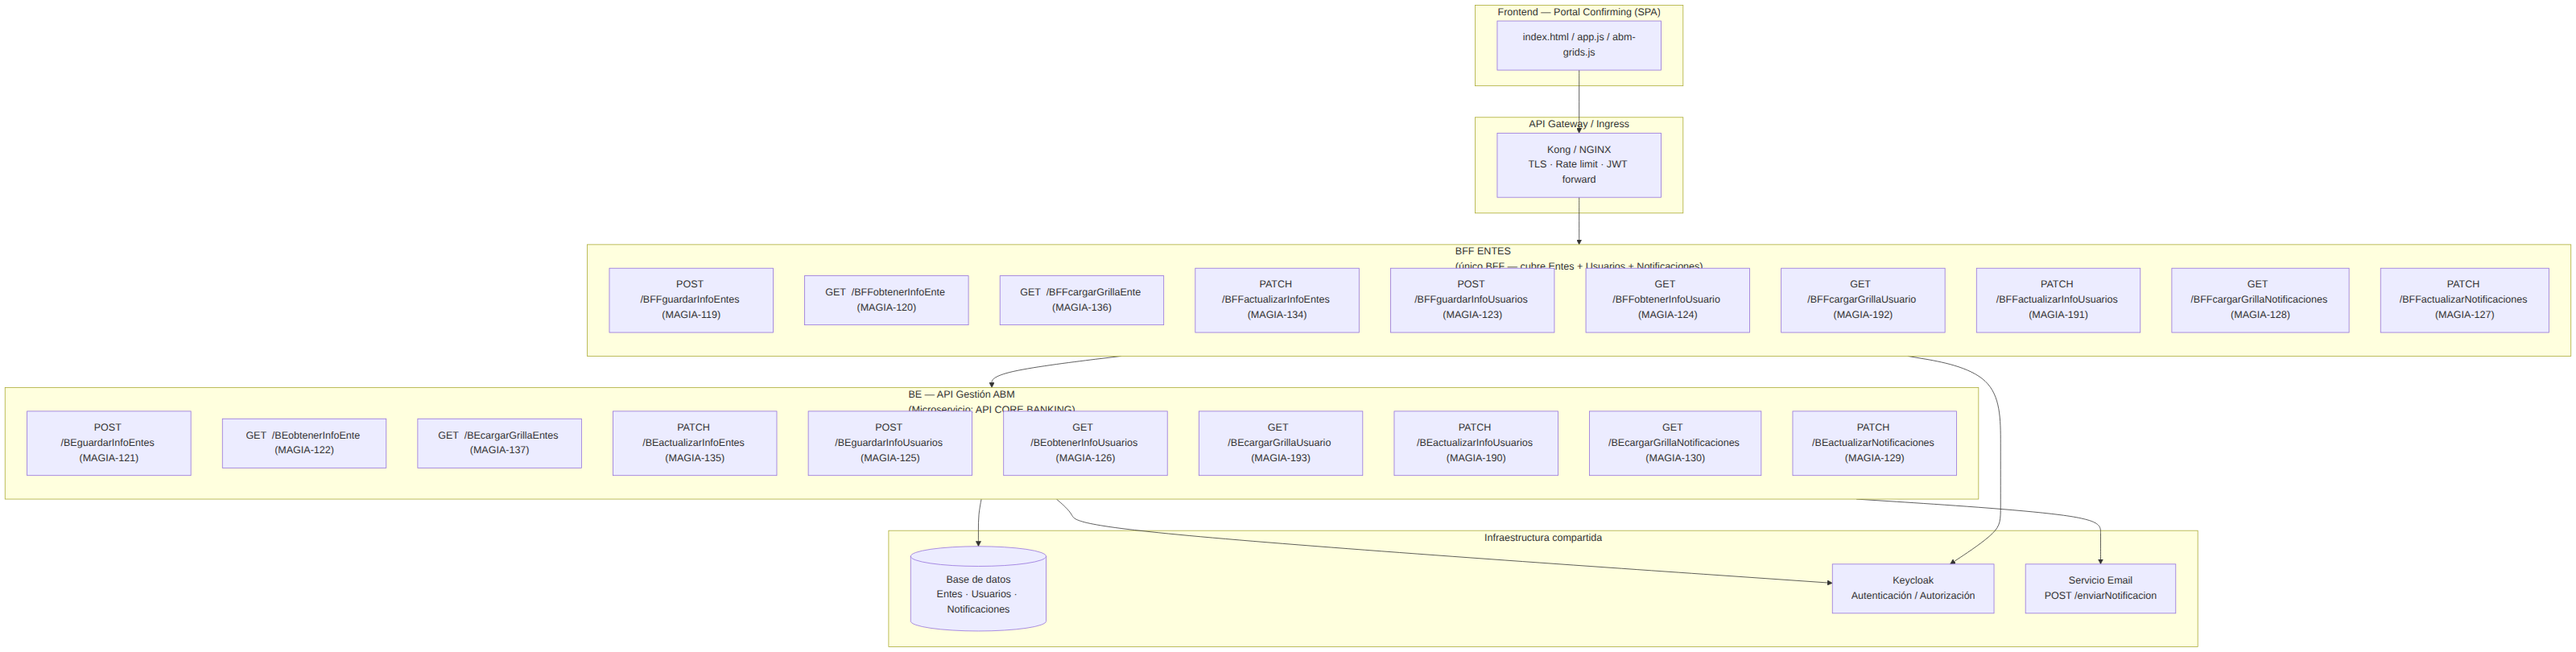
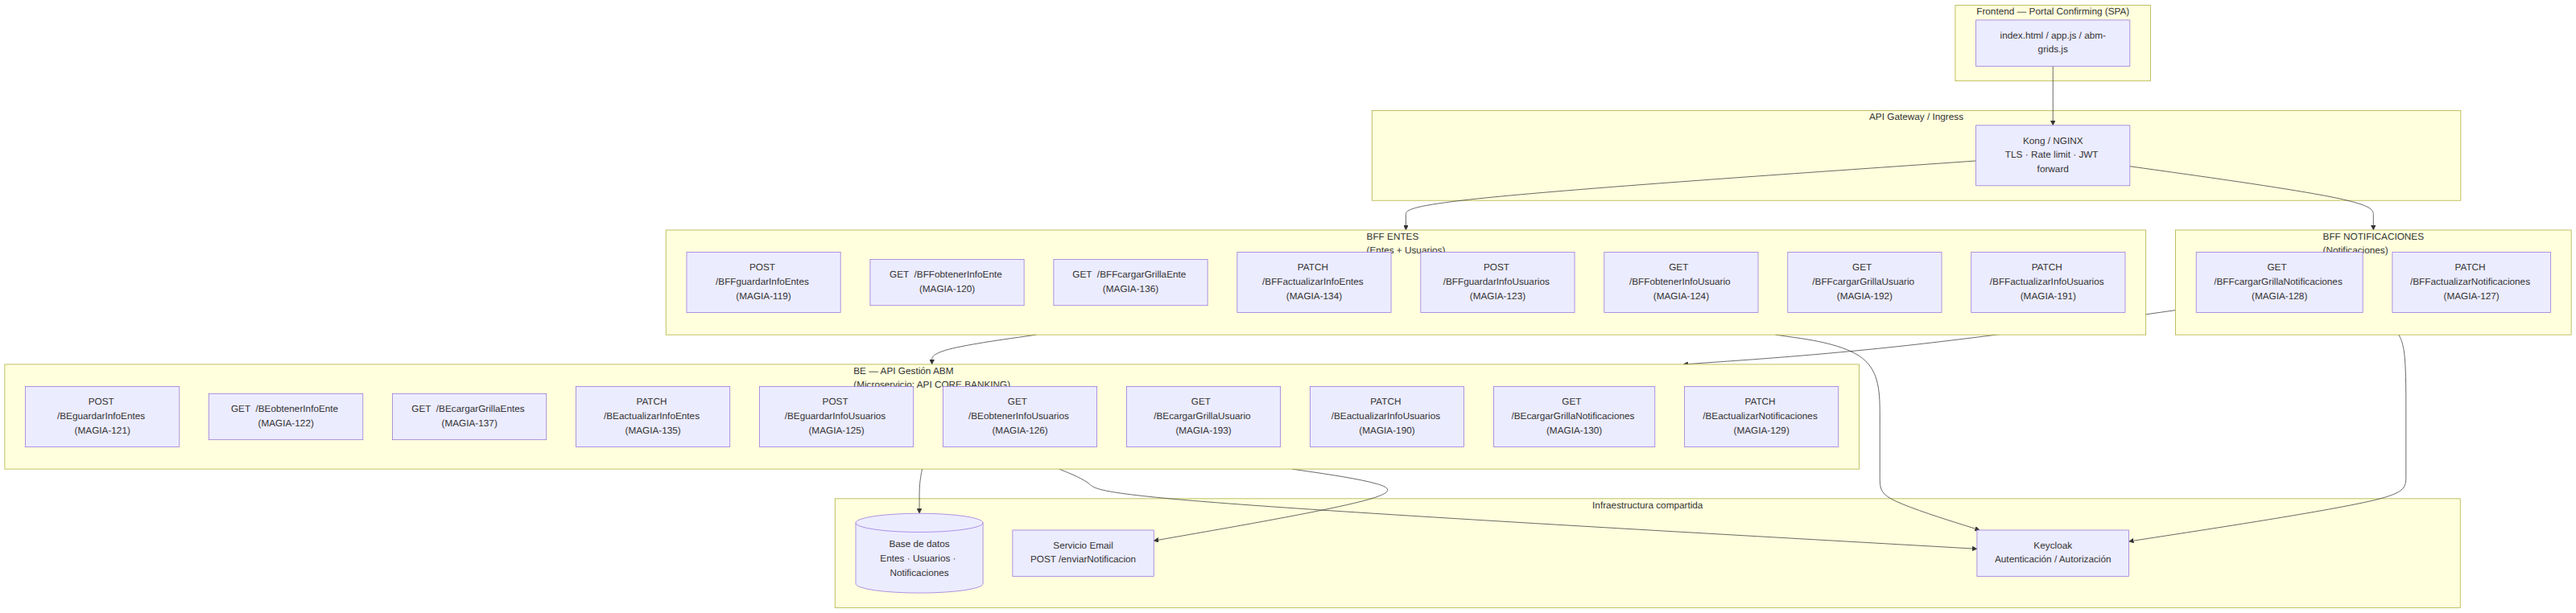
Corregir arquitectura: 2 BFFs separados (ENTES y NOTIFICACIONES)
Corrección: el sistema tiene 2 BFFs separados, no uno solo:
  - BFF ENTES: gestiona Entes (MAGIA-119/120/134/136) y Usuarios (MAGIA-123/124/191/192)
  - BFF NOTIFICACIONES: gestiona Notificaciones (MAGIA-127/128)

Cambios en arquitectura_diagramas_v1.0.0.md (v1.1.0):
  - Sección 1: tablas separadas por BFF ENTES y BFF NOTIFICACIONES
  - Sección 2: arquitectura general con 2 subgraphs BFF separados
  - Sección 3: capas FE→BFF→BE con 2 BFFs distintos
  - Secciones 6.1 y 6.2: participante 'BFF NOTIFICACIONES' en secuencias
  - Secciones 7, 8, 9: user flows con BFF correcto en cada nodo
  - Sección 11: matriz de trazabilidad con columna BFF actualizada

Todos los 16 PNGs re-renderizados con los cambios

diff --git a/assets/arquitectura_diagramas_v1.0.0.md b/assets/arquitectura_diagramas_v1.0.0.md
@@ -5,8 +5,10 @@
 |-------|-------|
 | **Fuente de verdad** | Jira — Proyecto MAGIA |
 | **Issues cubiertos** | MAGIA-119/120/121/122/125/126/127/128/129/130/134/135/136/137/190/191/192/193 |
-| **Versión documento** | 1.0.0 |
+| **Versión documento** | 1.1.0 |
 | **Fecha** | 2026-06-26 |
+
+> **v1.1.0:** Corrección arquitectura — existen **2 BFFs** separados: BFF ENTES (Entes + Usuarios) y BFF NOTIFICACIONES (Notificaciones).
 
 ---
 
@@ -30,7 +32,7 @@
 
 > Nombres exactos extraídos de las historias en Jira (proyecto MAGIA). Estado al 26/06/2026.
 
-### BFF ENTES (BFF único que maneja Entes + Usuarios + Notificaciones)
+### BFF ENTES (Entes + Usuarios)
 
 | Método | Endpoint BFF | Historia | Estado Jira |
 |--------|-------------|----------|-------------|
@@ -42,6 +44,11 @@
 | `GET` | `/api/v1/BFFobtenerInfoUsuario` | MAGIA-124 | Relevamiento |
 | `GET` | `/api/v1/BFFcargarGrillaUsuario` | MAGIA-192 | Relevamiento |
 | `PATCH` | `/api/v1/BFFactualizarInfoUsuarios` | MAGIA-191 | Relevamiento |
+
+### BFF NOTIFICACIONES (Notificaciones)
+
+| Método | Endpoint BFF | Historia | Estado Jira |
+|--------|-------------|----------|-------------|
 | `GET` | `/api/v1/BFFcargarGrillaNotificaciones` | MAGIA-128 | Relevamiento |
 | `PATCH` | `/api/v1/BFFactualizarNotificaciones` | MAGIA-127 | En Espera |
 
@@ -84,32 +91,36 @@ flowchart TB
         APIGW["Kong / NGINX\nTLS · Rate limit · JWT forward"]
     end
 
-    subgraph BFF["BFF ENTES\n(único BFF — cubre Entes + Usuarios + Notificaciones)"]
+    subgraph BFF_E["BFF ENTES\n(Entes + Usuarios)"]
         direction TB
-        B1["POST /BFFguardarInfoEntes (MAGIA-119)"]
-        B2["GET  /BFFobtenerInfoEnte (MAGIA-120)"]
-        B3["GET  /BFFcargarGrillaEnte (MAGIA-136)"]
-        B4["PATCH /BFFactualizarInfoEntes (MAGIA-134)"]
-        B5["POST /BFFguardarInfoUsuarios (MAGIA-123)"]
-        B6["GET  /BFFobtenerInfoUsuario (MAGIA-124)"]
-        B7["GET  /BFFcargarGrillaUsuario (MAGIA-192)"]
-        B8["PATCH /BFFactualizarInfoUsuarios (MAGIA-191)"]
-        B9["GET  /BFFcargarGrillaNotificaciones (MAGIA-128)"]
-        B10["PATCH /BFFactualizarNotificaciones (MAGIA-127)"]
+        BE1["POST /BFFguardarInfoEntes (MAGIA-119)"]
+        BE2["GET  /BFFobtenerInfoEnte (MAGIA-120)"]
+        BE3["GET  /BFFcargarGrillaEnte (MAGIA-136)"]
+        BE4["PATCH /BFFactualizarInfoEntes (MAGIA-134)"]
+        BE5["POST /BFFguardarInfoUsuarios (MAGIA-123)"]
+        BE6["GET  /BFFobtenerInfoUsuario (MAGIA-124)"]
+        BE7["GET  /BFFcargarGrillaUsuario (MAGIA-192)"]
+        BE8["PATCH /BFFactualizarInfoUsuarios (MAGIA-191)"]
+    end
+
+    subgraph BFF_N["BFF NOTIFICACIONES\n(Notificaciones)"]
+        direction TB
+        BN1["GET  /BFFcargarGrillaNotificaciones (MAGIA-128)"]
+        BN2["PATCH /BFFactualizarNotificaciones (MAGIA-127)"]
     end
 
     subgraph BE["BE — API Gestión ABM\n(Microservicio: API CORE BANKING)"]
         direction TB
-        BE1["POST /BEguardarInfoEntes (MAGIA-121)"]
-        BE2["GET  /BEobtenerInfoEnte (MAGIA-122)"]
-        BE3["GET  /BEcargarGrillaEntes (MAGIA-137)"]
-        BE4["PATCH /BEactualizarInfoEntes (MAGIA-135)"]
-        BE5["POST /BEguardarInfoUsuarios (MAGIA-125)"]
-        BE6["GET  /BEobtenerInfoUsuarios (MAGIA-126)"]
-        BE7["GET  /BEcargarGrillaUsuario (MAGIA-193)"]
-        BE8["PATCH /BEactualizarInfoUsuarios (MAGIA-190)"]
-        BE9["GET  /BEcargarGrillaNotificaciones (MAGIA-130)"]
-        BE10["PATCH /BEactualizarNotificaciones (MAGIA-129)"]
+        BE_E1["POST /BEguardarInfoEntes (MAGIA-121)"]
+        BE_E2["GET  /BEobtenerInfoEnte (MAGIA-122)"]
+        BE_E3["GET  /BEcargarGrillaEntes (MAGIA-137)"]
+        BE_E4["PATCH /BEactualizarInfoEntes (MAGIA-135)"]
+        BE_U1["POST /BEguardarInfoUsuarios (MAGIA-125)"]
+        BE_U2["GET  /BEobtenerInfoUsuarios (MAGIA-126)"]
+        BE_U3["GET  /BEcargarGrillaUsuario (MAGIA-193)"]
+        BE_U4["PATCH /BEactualizarInfoUsuarios (MAGIA-190)"]
+        BE_N1["GET  /BEcargarGrillaNotificaciones (MAGIA-130)"]
+        BE_N2["PATCH /BEactualizarNotificaciones (MAGIA-129)"]
     end
 
     subgraph INFRA["Infraestructura compartida"]
@@ -119,12 +130,15 @@ flowchart TB
     end
 
     UI --> APIGW
-    APIGW --> BFF
-    BFF --> BE
+    APIGW --> BFF_E
+    APIGW --> BFF_N
+    BFF_E --> BE
+    BFF_N --> BE
     BE --> DB
     BE --> KC
     BE --> MAIL
-    BFF --> KC
+    BFF_E --> KC
+    BFF_N --> KC
 ```
 
 ---
@@ -135,9 +149,12 @@ flowchart TB
 flowchart LR
     FE(["FE\nPortal Confirming"])
 
-    subgraph BFF_ENTES["BFF ENTES"]
+    subgraph BFF_ENTES["BFF ENTES\n(Entes + Usuarios)"]
         BFF_E["Entes\nMAGIA-119/120/134/136"]
         BFF_U["Usuarios\nMAGIA-123/124/191/192"]
+    end
+
+    subgraph BFF_NOTIF["BFF NOTIFICACIONES\n(Notificaciones)"]
         BFF_N["Notificaciones\nMAGIA-127/128"]
     end
 
@@ -242,7 +259,7 @@ sequenceDiagram
     participant DB as Base de Datos
 
     U->>FE: Ingresa a pestaña EGP o PROVEEDOR
-    
+
     alt Servicio responde OK (MAGIA-136 / MAGIA-137)
         FE->>BFF: GET /api/v1/BFFcargarGrillaEnte\n?entity=EGP|PROVEEDOR&pagelimit=20&status=todos
         BFF->>BFF: Validar token / autorización
@@ -537,7 +554,7 @@ sequenceDiagram
     autonumber
     actor U as Usuario (ABM)
     participant FE as Frontend
-    participant BFF as BFF ENTES
+    participant BFF as BFF NOTIFICACIONES
     participant BE as BE API Gestión ABM
     participant DB as Base de Datos
 
@@ -579,7 +596,7 @@ sequenceDiagram
     autonumber
     actor U as Usuario (ABM)
     participant FE as Frontend
-    participant BFF as BFF ENTES
+    participant BFF as BFF NOTIFICACIONES
     participant BE as BE API Gestión ABM
     participant DB as Base de Datos
 
@@ -622,13 +639,13 @@ flowchart TD
     Start((Inicio)) --> Login[Login Portal Confirming]
     Login --> NavABM[Navegar a Gestión ABM]
     NavABM --> TabEnte{Seleccionar tab}
-    TabEnte -->|EGP| CargarGrillaEGP["GET /BFFcargarGrillaEnte\n?entity=EGP&pagelimit=20&status=todos\nMAGIA-136 → MAGIA-137"]
-    TabEnte -->|PROVEEDOR| CargarGrillaProv["GET /BFFcargarGrillaEnte\n?entity=PROVEEDOR&pagelimit=20&status=todos\nMAGIA-136 → MAGIA-137"]
+    TabEnte -->|EGP| CargarGrillaEGP["GET /BFFcargarGrillaEnte\n?entity=EGP&pagelimit=20&status=todos\nBFF ENTES — MAGIA-136 → MAGIA-137"]
+    TabEnte -->|PROVEEDOR| CargarGrillaProv["GET /BFFcargarGrillaEnte\n?entity=PROVEEDOR&pagelimit=20&status=todos\nBFF ENTES — MAGIA-136 → MAGIA-137"]
 
     CargarGrillaEGP --> AccionEGP{Acción sobre grilla EGP}
     CargarGrillaProv --> AccionProv{Acción sobre grilla Proveedor}
 
-    AccionEGP -->|Ver detalle| ObtenerEnte["GET /BFFobtenerInfoEnte?ID=\nMAGIA-120 → MAGIA-122"]
+    AccionEGP -->|Ver detalle| ObtenerEnte["GET /BFFobtenerInfoEnte?ID=\nBFF ENTES — MAGIA-120 → MAGIA-122"]
     AccionProv -->|Ver detalle| ObtenerEnte
     ObtenerEnte --> ModalDetalle[Modal detalle solo lectura]
     ModalDetalle --> FinDetalle((Fin))
@@ -637,16 +654,16 @@ flowchart TD
     AccionProv -->|Nuevo Proveedor| FormAlta
     FormAlta --> ValFE{Validación FE\ncampos obligatorios}
     ValFE -->|Error| FormAlta
-    ValFE -->|OK| PostEnte["POST /BFFguardarInfoEntes\nMAGIA-119 → MAGIA-121"]
+    ValFE -->|OK| PostEnte["POST /BFFguardarInfoEntes\nBFF ENTES — MAGIA-119 → MAGIA-121"]
     PostEnte --> RespAlta{Response}
     RespAlta -->|OK| NotifAlta[BE dispara notif. email alta ente]
     NotifAlta --> RefreshGrilla[Refrescar grilla]
-    RespAlta -->|ERROR en BFF| ErrBFF["BFF NO llama BE\nMostrar error funcional al FE"]
+    RespAlta -->|ERROR en BFF| ErrBFF["BFF ENTES NO llama BE\nMostrar error funcional al FE"]
     RespAlta -->|ERROR en BE| ErrBE[Mostrar error propagado al FE]
 
     AccionEGP -->|Editar| FormEditar[Formulario Editar Ente]
     AccionProv -->|Editar| FormEditar
-    FormEditar --> PatchEdit["PATCH /BFFactualizarInfoEntes\naction=editar\nMAGIA-134 → MAGIA-135"]
+    FormEditar --> PatchEdit["PATCH /BFFactualizarInfoEntes\naction=editar — BFF ENTES — MAGIA-134 → MAGIA-135"]
     PatchEdit --> RespEdit{Response}
     RespEdit -->|OK| RefreshGrilla
     RespEdit -->|ERROR en BFF| ErrBFF
@@ -655,16 +672,16 @@ flowchart TD
     AccionEGP -->|Gestionar pendiente| FormGestionar[Modal Gestionar Autorización]
     AccionProv -->|Gestionar pendiente| FormGestionar
     FormGestionar --> DecAuth{Decisión}
-    DecAuth -->|Autorizar| PatchAuth["PATCH /BFFactualizarInfoEntes\naction=autorizar\nMAGIA-134 → MAGIA-135"]
-    DecAuth -->|Rechazar + motivo| PatchRej["PATCH /BFFactualizarInfoEntes\naction=rechazar\nMAGIA-134 → MAGIA-135"]
+    DecAuth -->|Autorizar| PatchAuth["PATCH /BFFactualizarInfoEntes\naction=autorizar — BFF ENTES — MAGIA-134 → MAGIA-135"]
+    DecAuth -->|Rechazar + motivo| PatchRej["PATCH /BFFactualizarInfoEntes\naction=rechazar — BFF ENTES — MAGIA-134 → MAGIA-135"]
     PatchAuth --> RefreshGrilla
     PatchRej --> RefreshGrilla
 
-    AccionEGP -->|Bloquear / Desbloquear| PatchBlock["PATCH /BFFactualizarInfoEntes\naction=bloquear|desbloquear\nMAGIA-134 → MAGIA-135"]
+    AccionEGP -->|Bloquear / Desbloquear| PatchBlock["PATCH /BFFactualizarInfoEntes\naction=bloquear|desbloquear — BFF ENTES — MAGIA-134 → MAGIA-135"]
     AccionProv -->|Bloquear / Desbloquear| PatchBlock
     PatchBlock --> RefreshGrilla
 
-    AccionEGP -->|Borrar| PatchBorrar["PATCH /BFFactualizarInfoEntes\naction=borrar\nMAGIA-134 → MAGIA-135"]
+    AccionEGP -->|Borrar| PatchBorrar["PATCH /BFFactualizarInfoEntes\naction=borrar — BFF ENTES — MAGIA-134 → MAGIA-135"]
     AccionProv -->|Borrar| PatchBorrar
     PatchBorrar --> RefreshGrilla
 
@@ -681,28 +698,28 @@ flowchart TD
 flowchart TD
     Start((Inicio)) --> Login[Login Portal Confirming]
     Login --> NavABM[Gestión ABM → Tab Usuarios]
-    NavABM --> CargarGrilla["GET /BFFcargarGrillaUsuario\n?entity=USUARIOS&pagelimit=20&status=todos\nMAGIA-192 → MAGIA-193"]
+    NavABM --> CargarGrilla["GET /BFFcargarGrillaUsuario\n?entity=USUARIOS&pagelimit=20&status=todos\nBFF ENTES — MAGIA-192 → MAGIA-193"]
 
     CargarGrilla --> Accion{Acción sobre grilla}
 
-    Accion -->|Ver detalle| ObtenerUsuario["GET /BFFobtenerInfoUsuario?ID=\nMAGIA-124 → MAGIA-126"]
+    Accion -->|Ver detalle| ObtenerUsuario["GET /BFFobtenerInfoUsuario?ID=\nBFF ENTES — MAGIA-124 → MAGIA-126"]
     ObtenerUsuario --> ModalDet[Modal detalle solo lectura]
     ModalDet --> FinDet((Fin))
 
     Accion -->|Nuevo Usuario| FormNuevo[Formulario Nuevo Usuario]
     FormNuevo --> ValFE{Validación FE\nnombre/apellido/email/teléfono/ente/rol}
     ValFE -->|Error| FormNuevo
-    ValFE -->|OK| PostUsuario["POST /BFFguardarInfoUsuarios\nMAGIA-123 → MAGIA-125"]
+    ValFE -->|OK| PostUsuario["POST /BFFguardarInfoUsuarios\nBFF ENTES — MAGIA-123 → MAGIA-125"]
     PostUsuario --> RespAlta{Response}
     RespAlta -->|OK| NotifPend[BE notifica alta usuario pendiente autorización]
     NotifPend --> RefreshGrilla[Refrescar grilla Usuarios]
-    RespAlta -->|ERROR BFF| ErrBFF["BFF NO llama BE\nError funcional al FE"]
+    RespAlta -->|ERROR BFF| ErrBFF["BFF ENTES NO llama BE\nError funcional al FE"]
     RespAlta -->|ERROR BE| ErrBE[Error propagado al FE]
 
     Accion -->|Editar| FormEditar[Formulario Editar Usuario]
     FormEditar --> CambioCritico{¿Cambió ente o rol?}
-    CambioCritico -->|Sí| PatchReauth["PATCH /BFFactualizarInfoUsuarios\naction=editar + re-pendiente\nMAGIA-191 → MAGIA-190"]
-    CambioCritico -->|No| PatchEdit["PATCH /BFFactualizarInfoUsuarios\naction=editar\nMAGIA-191 → MAGIA-190"]
+    CambioCritico -->|Sí| PatchReauth["PATCH /BFFactualizarInfoUsuarios\naction=editar + re-pendiente\nBFF ENTES — MAGIA-191 → MAGIA-190"]
+    CambioCritico -->|No| PatchEdit["PATCH /BFFactualizarInfoUsuarios\naction=editar\nBFF ENTES — MAGIA-191 → MAGIA-190"]
     PatchReauth --> RefreshGrilla
     PatchEdit --> RefreshGrilla
 
@@ -710,16 +727,16 @@ flowchart TD
     FormGestionar --> DecAuth{Decisión}
     DecAuth -->|Autorizar| ValCI{¿Misma CI que autorizador?}
     ValCI -->|Sí| ErrorCI[Error: no puede auto-autorizarse]
-    ValCI -->|No| PatchAuth["PATCH /BFFactualizarInfoUsuarios\naction=autorizar\nMAGIA-191 → MAGIA-190"]
-    DecAuth -->|Rechazar + motivo| PatchRej["PATCH /BFFactualizarInfoUsuarios\naction=rechazar\nMAGIA-191 → MAGIA-190"]
+    ValCI -->|No| PatchAuth["PATCH /BFFactualizarInfoUsuarios\naction=autorizar\nBFF ENTES — MAGIA-191 → MAGIA-190"]
+    DecAuth -->|Rechazar + motivo| PatchRej["PATCH /BFFactualizarInfoUsuarios\naction=rechazar\nBFF ENTES — MAGIA-191 → MAGIA-190"]
     PatchAuth --> NotifPrimer[BE notifica primer login\nKeycloak activa usuario]
     NotifPrimer --> RefreshGrilla
     PatchRej --> RefreshGrilla
 
-    Accion -->|Bloquear / Desbloquear| PatchBlock["PATCH /BFFactualizarInfoUsuarios\naction=bloquear|desbloquear\nMAGIA-191 → MAGIA-190"]
+    Accion -->|Bloquear / Desbloquear| PatchBlock["PATCH /BFFactualizarInfoUsuarios\naction=bloquear|desbloquear\nBFF ENTES — MAGIA-191 → MAGIA-190"]
     PatchBlock --> RefreshGrilla
 
-    Accion -->|Borrar| PatchBorrar["PATCH /BFFactualizarInfoUsuarios\naction=borrar\nMAGIA-191 → MAGIA-190"]
+    Accion -->|Borrar| PatchBorrar["PATCH /BFFactualizarInfoUsuarios\naction=borrar\nBFF ENTES — MAGIA-191 → MAGIA-190"]
     PatchBorrar --> RefreshGrilla
 
     RefreshGrilla --> Accion
@@ -736,23 +753,23 @@ flowchart TD
 flowchart TD
     Start((Inicio)) --> Login[Login Portal Confirming\npermiso: ABM Notificaciones - Ver]
     Login --> NavABM[Gestión ABM → Tab Notificaciones]
-    NavABM --> CargarGrilla["GET /BFFcargarGrillaNotificaciones\n?entity=Notificaciones&pagelimit=20&status=todos\nMAGIA-128 → MAGIA-130"]
+    NavABM --> CargarGrilla["GET /BFFcargarGrillaNotificaciones\n?entity=Notificaciones&pagelimit=20&status=todos\nBFF NOTIFICACIONES — MAGIA-128 → MAGIA-130"]
 
     CargarGrilla --> VerGrilla[Grilla muestra catálogo notificaciones\nAgrupador · Nombre · Estado disparador · Tipo · Dominio · Rol · Activa]
 
     VerGrilla --> Filtro{¿Filtrar por nombre?}
-    Filtro -->|Sí| ReQuery["GET /BFFcargarGrillaNotificaciones?nombre=...\nMAGIA-128 → MAGIA-130"]
+    Filtro -->|Sí| ReQuery["GET /BFFcargarGrillaNotificaciones?nombre=...\nBFF NOTIFICACIONES — MAGIA-128 → MAGIA-130"]
     ReQuery --> VerGrilla
     Filtro -->|No| Accion{Acción}
 
-    Accion -->|Activar| PatchActivar["PATCH /BFFactualizarNotificaciones\n{id, activa: true}\nMAGIA-127 → MAGIA-129"]
-    Accion -->|Desactivar| PatchDesactivar["PATCH /BFFactualizarNotificaciones\n{id, activa: false}\nMAGIA-127 → MAGIA-129"]
+    Accion -->|Activar| PatchActivar["PATCH /BFFactualizarNotificaciones\n{id, activa: true}\nBFF NOTIFICACIONES — MAGIA-127 → MAGIA-129"]
+    Accion -->|Desactivar| PatchDesactivar["PATCH /BFFactualizarNotificaciones\n{id, activa: false}\nBFF NOTIFICACIONES — MAGIA-127 → MAGIA-129"]
 
     PatchActivar --> RespPatch{Response}
     PatchDesactivar --> RespPatch
 
     RespPatch -->|OK| RefreshGrilla[Refrescar grilla notificaciones]
-    RespPatch -->|ERROR BFF| ErrBFF["BFF NO llama BE\nError funcional al FE"]
+    RespPatch -->|ERROR BFF| ErrBFF["BFF NOTIFICACIONES NO llama BE\nError funcional al FE"]
     RespPatch -->|ERROR BE| ErrBE[Error propagado al FE]
 
     RefreshGrilla --> VerGrilla
@@ -849,28 +866,28 @@ erDiagram
 
 ## 11. Matriz de trazabilidad Jira
 
-| # | Dominio | Capa | Método | Endpoint (Jira) | Historia Jira | Estado |
-|---|---------|------|--------|-----------------|---------------|--------|
-| 1 | Entes | BFF | POST | `/api/v1/BFFguardarInfoEntes` | MAGIA-119 | Relevamiento |
-| 2 | Entes | BFF | GET | `/api/v1/BFFobtenerInfoEnte` | MAGIA-120 | Relevamiento |
-| 3 | Entes | BFF | GET | `/api/v1/BFFcargarGrillaEnte` | MAGIA-136 | Relevamiento |
-| 4 | Entes | BFF | PATCH | `/api/v1/BFFactualizarInfoEntes` | MAGIA-134 | Relevamiento |
-| 5 | Entes | BE | POST | `/api/v1/BEguardarInfoEntes` | MAGIA-121 | Relevamiento |
-| 6 | Entes | BE | GET | `/api/v1/BEobtenerInfoEnte` | MAGIA-122 | Relevamiento |
-| 7 | Entes | BE | GET | `/api/v1/BEcargarGrillaEntes` | MAGIA-137 | Relevamiento |
-| 8 | Entes | BE | PATCH | `/api/v1/BEactualizarInfoEntes` | MAGIA-135 | Relevamiento |
-| 9 | Usuarios | BFF | POST | `/api/v1/BFFguardarInfoUsuarios` | MAGIA-123 | Relevamiento |
-| 10 | Usuarios | BFF | GET | `/api/v1/BFFobtenerInfoUsuario` | MAGIA-124 | Relevamiento |
-| 11 | Usuarios | BFF | GET | `/api/v1/BFFcargarGrillaUsuario` | MAGIA-192 | Relevamiento |
-| 12 | Usuarios | BFF | PATCH | `/api/v1/BFFactualizarInfoUsuarios` | MAGIA-191 | Relevamiento |
-| 13 | Usuarios | BE | POST | `/api/v1/BEguardarInfoUsuarios` | MAGIA-125 | Relevamiento |
-| 14 | Usuarios | BE | GET | `/api/v1/BEobtenerInfoUsuarios` | MAGIA-126 | Relevamiento |
-| 15 | Usuarios | BE | GET | `/api/v1/BEcargarGrillaUsuario` | MAGIA-193 | Relevamiento |
-| 16 | Usuarios | BE | PATCH | `/api/v1/BEactualizarInfoUsuarios` | MAGIA-190 | Relevamiento |
-| 17 | Notificaciones | BFF | GET | `/api/v1/BFFcargarGrillaNotificaciones` | MAGIA-128 | Relevamiento |
-| 18 | Notificaciones | BFF | PATCH | `/api/v1/BFFactualizarNotificaciones` | MAGIA-127 | En Espera |
-| 19 | Notificaciones | BE | GET | `/api/v1/BEcargarGrillaNotificaciones` | MAGIA-130 | Relevamiento |
-| 20 | Notificaciones | BE | PATCH | `/api/v1/BEactualizarNotificaciones` | MAGIA-129 | En Espera |
+| # | Dominio | BFF | Capa | Método | Endpoint (Jira) | Historia Jira | Estado |
+|---|---------|-----|------|--------|-----------------|---------------|--------|
+| 1 | Entes | BFF ENTES | BFF | POST | `/api/v1/BFFguardarInfoEntes` | MAGIA-119 | Relevamiento |
+| 2 | Entes | BFF ENTES | BFF | GET | `/api/v1/BFFobtenerInfoEnte` | MAGIA-120 | Relevamiento |
+| 3 | Entes | BFF ENTES | BFF | GET | `/api/v1/BFFcargarGrillaEnte` | MAGIA-136 | Relevamiento |
+| 4 | Entes | BFF ENTES | BFF | PATCH | `/api/v1/BFFactualizarInfoEntes` | MAGIA-134 | Relevamiento |
+| 5 | Entes | — | BE | POST | `/api/v1/BEguardarInfoEntes` | MAGIA-121 | Relevamiento |
+| 6 | Entes | — | BE | GET | `/api/v1/BEobtenerInfoEnte` | MAGIA-122 | Relevamiento |
+| 7 | Entes | — | BE | GET | `/api/v1/BEcargarGrillaEntes` | MAGIA-137 | Relevamiento |
+| 8 | Entes | — | BE | PATCH | `/api/v1/BEactualizarInfoEntes` | MAGIA-135 | Relevamiento |
+| 9 | Usuarios | BFF ENTES | BFF | POST | `/api/v1/BFFguardarInfoUsuarios` | MAGIA-123 | Relevamiento |
+| 10 | Usuarios | BFF ENTES | BFF | GET | `/api/v1/BFFobtenerInfoUsuario` | MAGIA-124 | Relevamiento |
+| 11 | Usuarios | BFF ENTES | BFF | GET | `/api/v1/BFFcargarGrillaUsuario` | MAGIA-192 | Relevamiento |
+| 12 | Usuarios | BFF ENTES | BFF | PATCH | `/api/v1/BFFactualizarInfoUsuarios` | MAGIA-191 | Relevamiento |
+| 13 | Usuarios | — | BE | POST | `/api/v1/BEguardarInfoUsuarios` | MAGIA-125 | Relevamiento |
+| 14 | Usuarios | — | BE | GET | `/api/v1/BEobtenerInfoUsuarios` | MAGIA-126 | Relevamiento |
+| 15 | Usuarios | — | BE | GET | `/api/v1/BEcargarGrillaUsuario` | MAGIA-193 | Relevamiento |
+| 16 | Usuarios | — | BE | PATCH | `/api/v1/BEactualizarInfoUsuarios` | MAGIA-190 | Relevamiento |
+| 17 | Notificaciones | BFF NOTIFICACIONES | BFF | GET | `/api/v1/BFFcargarGrillaNotificaciones` | MAGIA-128 | Relevamiento |
+| 18 | Notificaciones | BFF NOTIFICACIONES | BFF | PATCH | `/api/v1/BFFactualizarNotificaciones` | MAGIA-127 | En Espera |
+| 19 | Notificaciones | — | BE | GET | `/api/v1/BEcargarGrillaNotificaciones` | MAGIA-130 | Relevamiento |
+| 20 | Notificaciones | — | BE | PATCH | `/api/v1/BEactualizarNotificaciones` | MAGIA-129 | En Espera |
 
 ---
 
